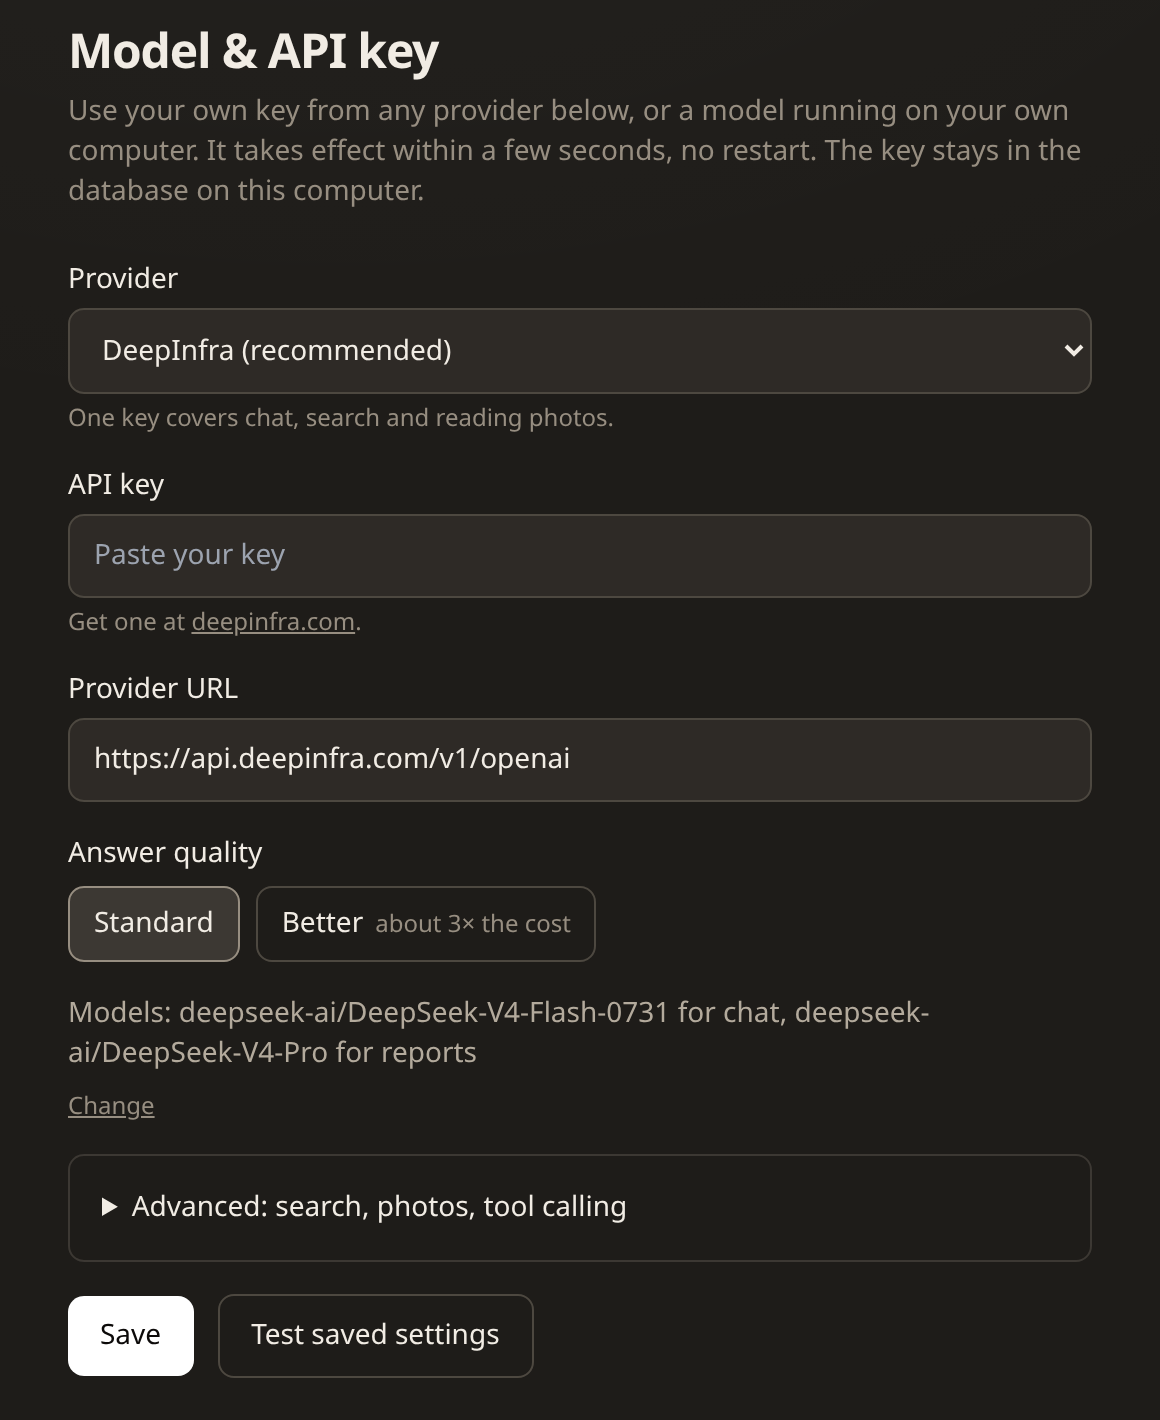
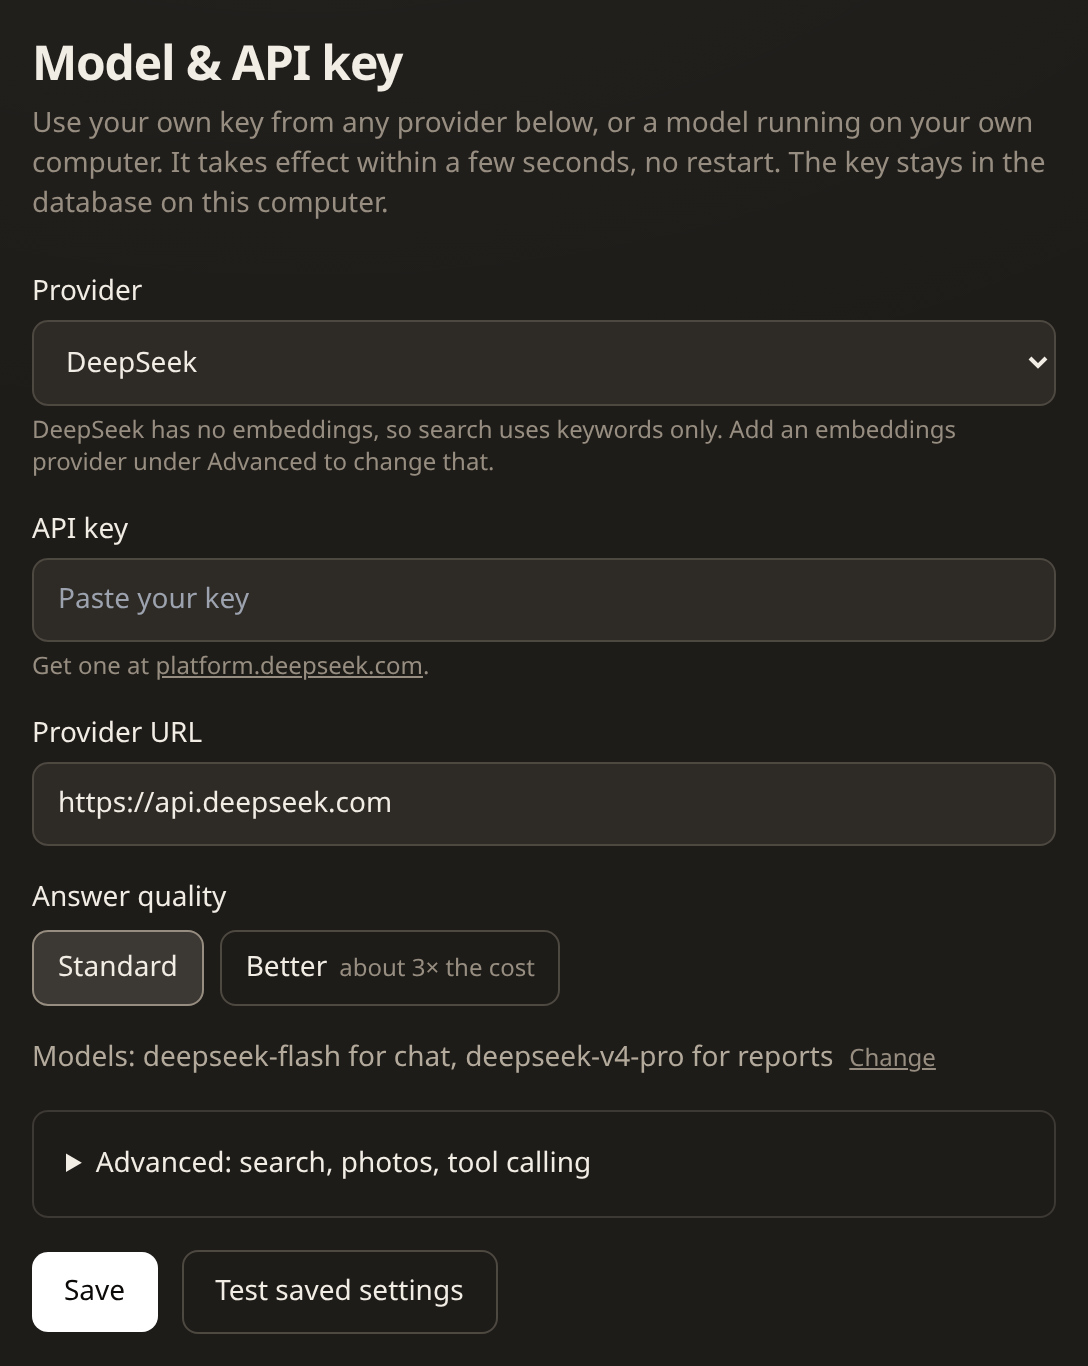
README: smaller settings screenshot, DeepSeek as the example

diff --git a/README.md b/README.md
@@ -59,7 +59,7 @@ but not for real questions.
 The first build takes a few minutes; later starts take seconds. Your database,
 uploaded files and settings are kept in Docker volumes between restarts.
 
-![The Model & API key page](docs/model-settings.png)
+<img src="docs/model-settings.png" alt="The Model & API key page, with DeepSeek selected" width="420">
 
 ### Good to know
 
